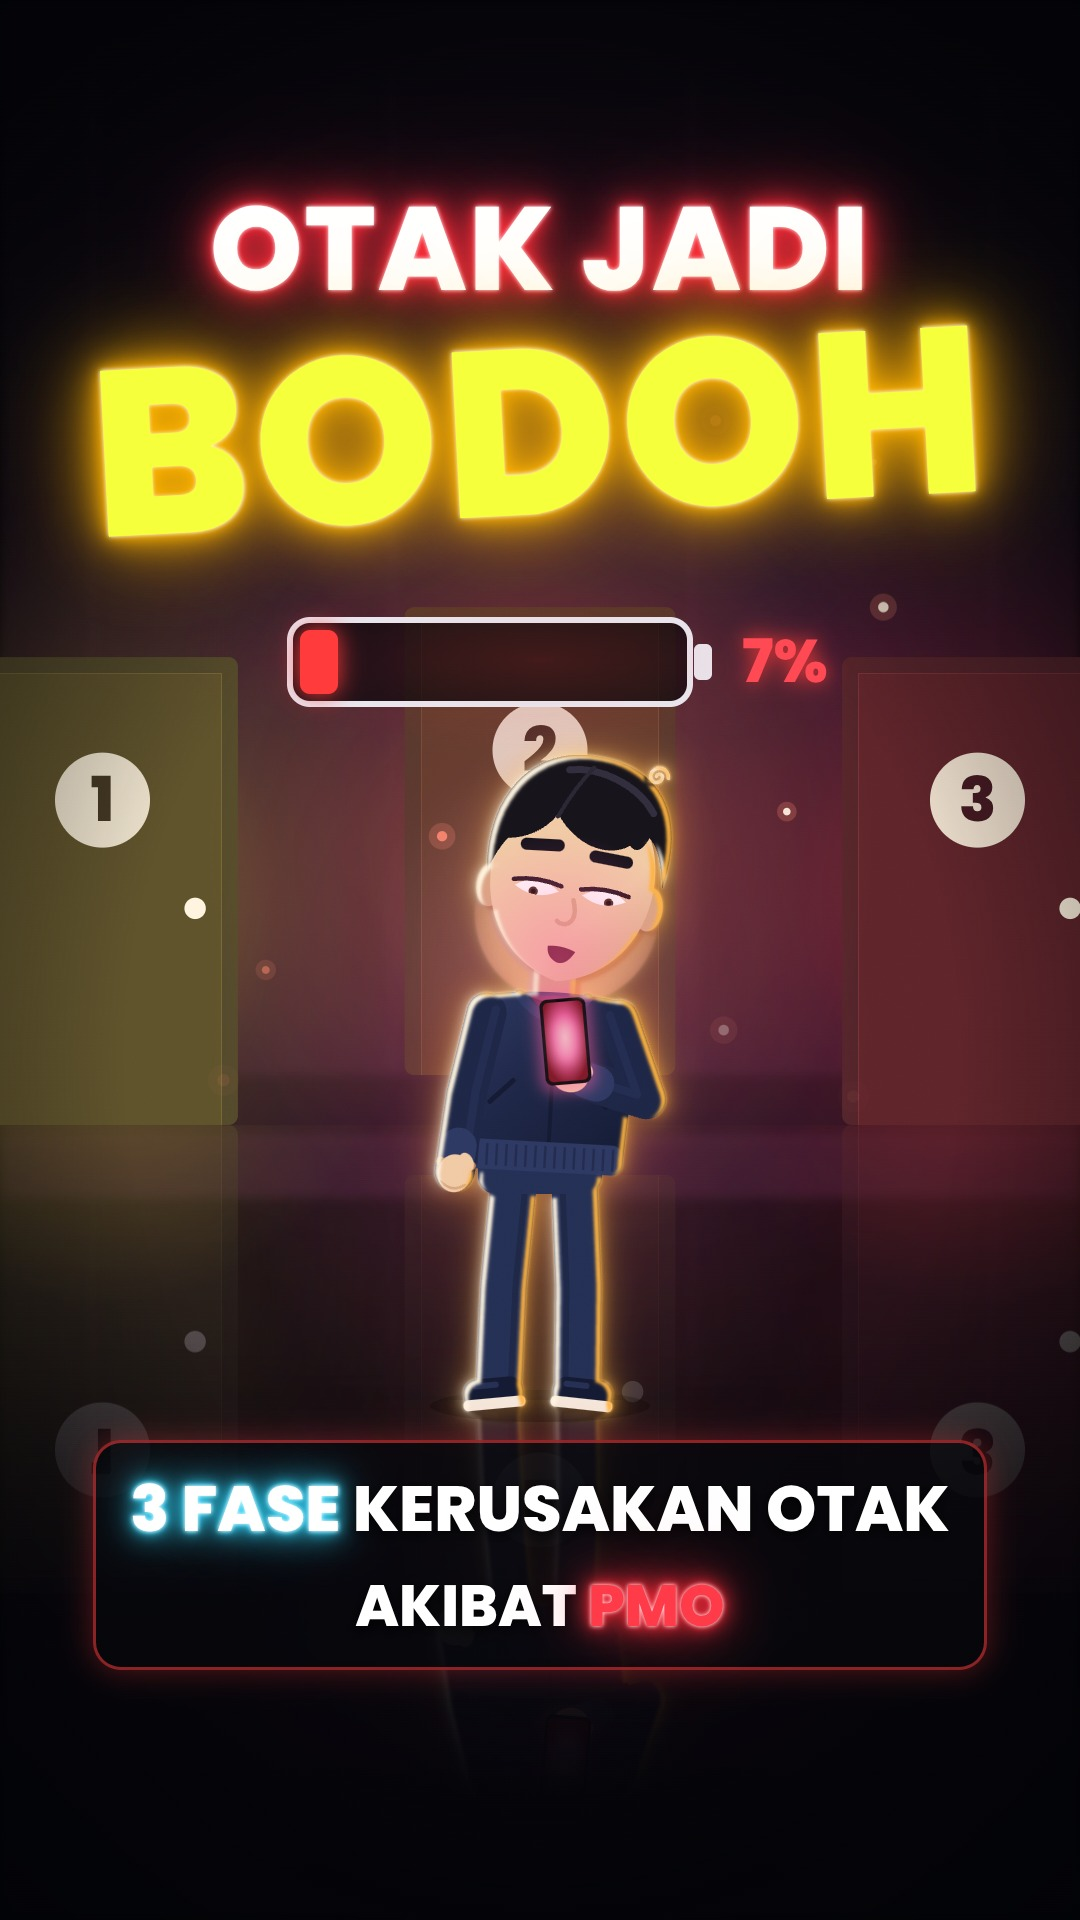
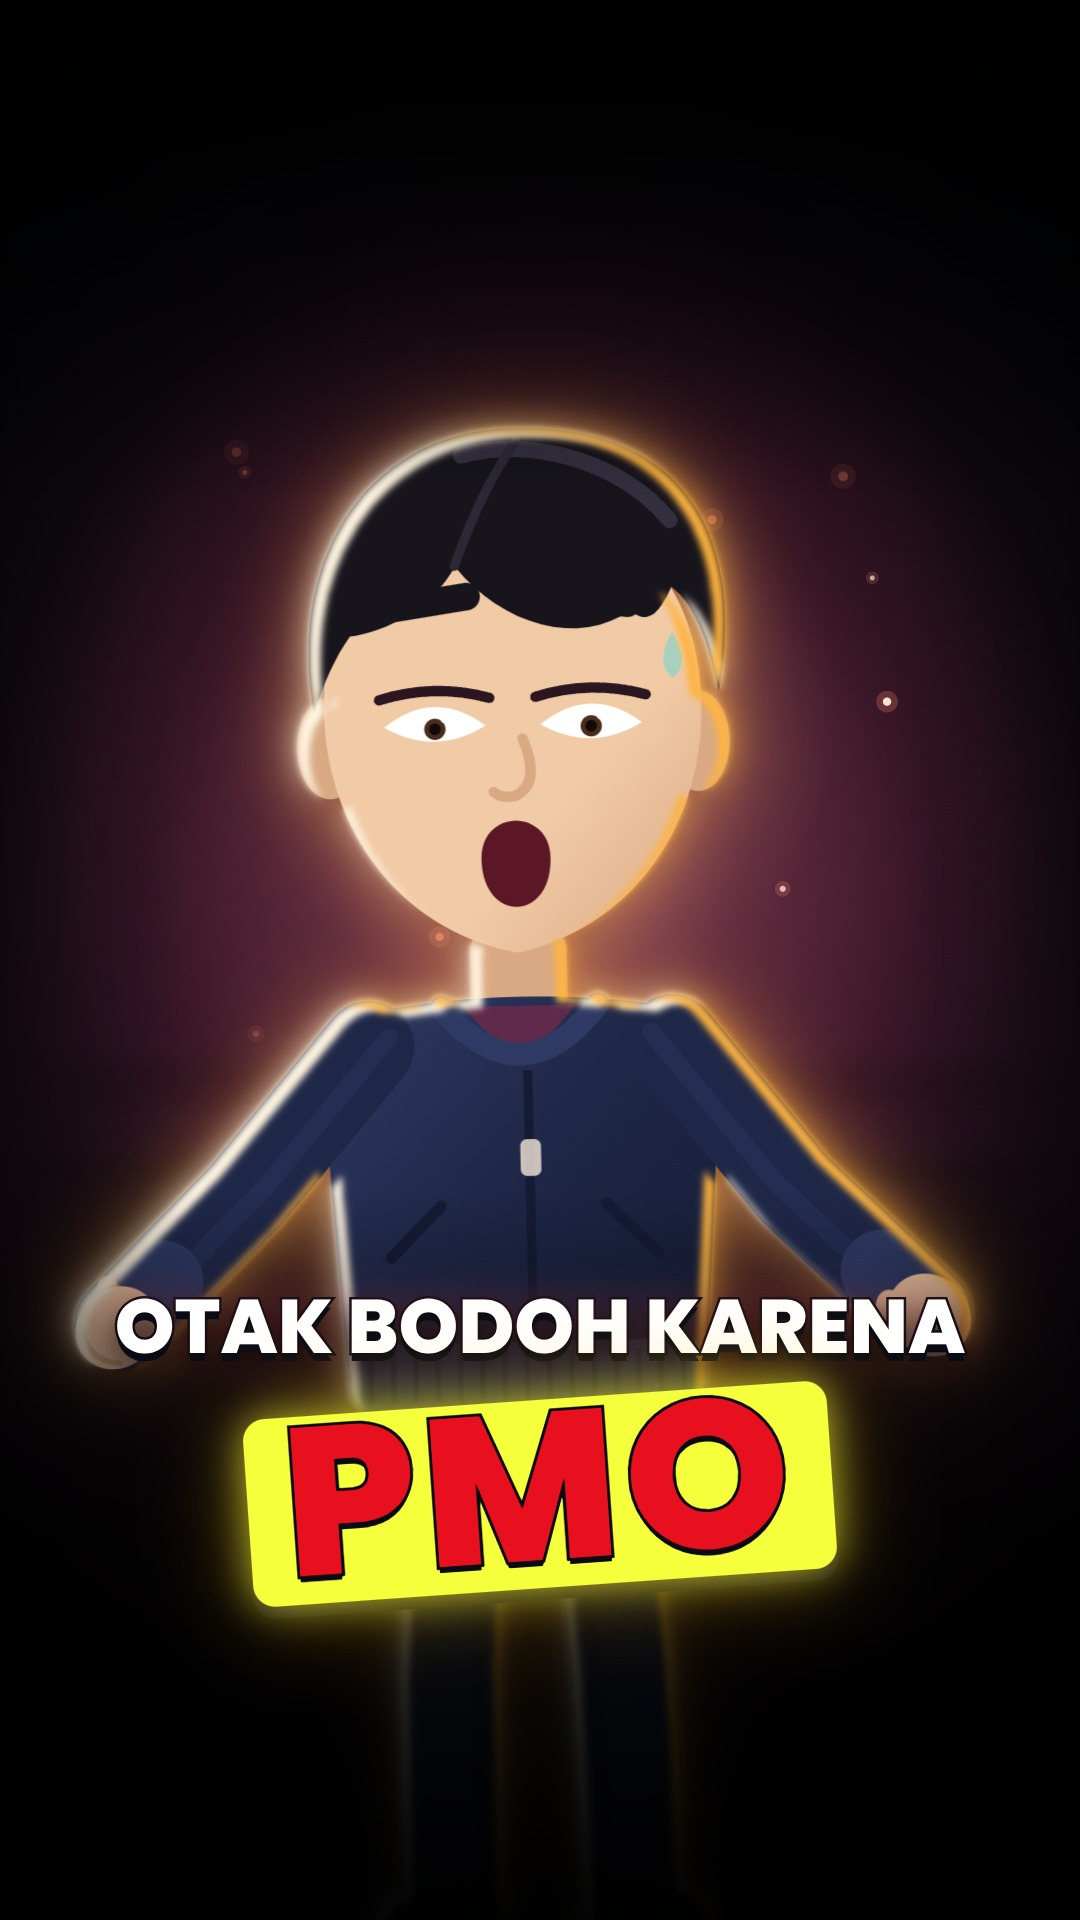
otakbodoh: revisi thumbnail (close-up melotot, tangan pegang ujung teks, PMO highlight, vignette atas-bawah)
Claude-Session: https://claude.ai/code/session_01PossTfFcZFX1SneWtUCcrT

diff --git a/remotion_otakbodoh/src/Thumbnail.tsx b/remotion_otakbodoh/src/Thumbnail.tsx
@@ -1,74 +1,69 @@
 // Thumbnail video "otak bodoh" (1080x1920, sama dengan video) -> out/thumbnail_otak_bodoh.jpg
-// Gaya video: ruang gelap samar + lantai mengkilap, 3 pintu fase bercahaya, karakter bengong memegang HP 18+ (simbolik),
-// judul teks NEON + baterai otak lowbat. Teks penting di tengah (bebas dari 260 px bawah & 80 px kiri/kanan UI TikTok/Reels).
+// Revisi: latar gelap, pencahayaan fokus (spotlight) ke karakter CLOSE-UP, ekspresi melotot, kedua tangan memegang ujung teks.
+// Teks "OTAK BODOH KARENA" / "PMO" (PMO di-highlight) di tengah area bawah, overlay PALING DEPAN (boleh menimpa karakter).
+// Vignette di bagian atas & bawah. Teks bebas dari 260 px bawah & 80 px kiri/kanan (UI TikTok/Reels).
 import React from 'react';
 import {AbsoluteFill} from 'remotion';
 import {FONT} from './fonts';
-import {Dim} from './components/Places';
-import {EmptyRoom, FEET, HZ, TONES, mixTone} from './components/Places4';
-import {Halo, LitCharacter, Reflect, Rise} from './components/Lit';
+import {EmptyRoom, TONES, mixTone} from './components/Places4';
+import {Halo, LitCharacter, Rise} from './components/Lit';
 import {Spotlight} from './components/Spot';
 import {Grain} from './components/Bg';
-import * as O from './illustrations/ob';
+import {handWorld} from './components/Character';
 
-const neon = (c: string, k = 1) => `0 0 4px #FFFFFF, 0 0 ${12 * k}px ${c}, 0 0 ${28 * k}px ${c}, 0 0 ${60 * k}px ${c}, 0 0 ${110 * k}px ${c}99`;
-const T0 = mixTone(TONES.emptyPurple, TONES.cityRed, 0.45);
+// karakter close-up
+const CX = 540, SC = 2.3, FEET_Y = 1935;
+const hl = handWorld('holding_text_edges', -1, CX, FEET_Y, SC); // tangan kanan karakter (kiri layar)
+const hr = handWorld('holding_text_edges', 1, CX, FEET_Y, SC);  // tangan kiri karakter (kanan layar)
+const L1_Y = (hl.y + hr.y) / 2;                                 // garis tengah baris 1 = tinggi genggaman
 
-export const Thumbnail: React.FC = () => (
-  <AbsoluteFill style={{background: '#000'}}>
-    {/* latar samar: ruang kosong + 3 pintu fase */}
-    <AbsoluteFill style={{filter: 'blur(5px)'}}>
-      <svg width={1080} height={1920}>
-        <g transform="translate(540,1000) scale(1.25) translate(-540,-1000)"><EmptyRoom T={T0} /></g>
-        <Dim dim={0.25} />
+let ctx: CanvasRenderingContext2D | null = null;
+const measure = (txt: string, size: number) => {
+  if (typeof document === 'undefined') return txt.length * size * 0.66;
+  if (!ctx) ctx = document.createElement('canvas').getContext('2d');
+  ctx!.font = `800 ${size}px Poppins`;
+  return ctx!.measureText(txt).width;
+};
+const L1 = 'OTAK BODOH KARENA';
+
+export const Thumbnail: React.FC = () => {
+  // baris 1 mengisi jarak antar genggaman (ujung huruf ada di tangan), tetap di dalam 80 px kiri/kanan
+  const span = Math.min(hr.x - hl.x + 60, 920);
+  const fs1 = (span / measure(L1, 100)) * 100;
+  const fs2 = 210;
+  return (
+    <AbsoluteFill style={{background: '#000'}}>
+      {/* latar gelap samar */}
+      <AbsoluteFill style={{filter: 'blur(9px)'}}>
+        <svg width={1080} height={1920}>
+          <EmptyRoom T={mixTone(TONES.emptyPurple, TONES.cityRed, 0.5)} />
+          <rect width={1080} height={1920} fill="#04030A" opacity={0.55} />
+        </svg>
+      </AbsoluteFill>
+      {/* fokus cahaya ke karakter close-up */}
+      <svg width={1080} height={1920} style={{position: 'absolute'}}>
+        <Spotlight x={540} y={900} rx={560} ry={700} dark={0.92} />
+        <Halo x={540} y={760} rx={520} ry={560} color="#FF4A6A" op={0.28} />
+        <Halo x={540} y={720} rx={300} ry={300} color="#FFE6C8" op={0.22} />
+        <Rise x={540} y={1100} w={760} h={700} n={16} color="#FF8A6A" t={17} />
+        <LitCharacter id="th" x={CX} y={FEET_Y} scale={SC} pose="holding_text_edges" expression="bulging" haloColor="#FF5A7A" lookAt={{x: 0, y: 0.05}} blinkSeed={99} />
       </svg>
-    </AbsoluteFill>
-    <svg width={1080} height={1920} style={{position: 'absolute'}}>
-      <g transform="translate(540,1050) scale(1.25) translate(-540,-1050)">
-        <Spotlight x={540} y={1000} rx={560} ry={760} dark={0.5} />
-        <Reflect floor={HZ} op={0.45} depth={420}>
-          <g transform={`translate(190,${HZ}) scale(0.95)`}><O.GlowDoor n={1} color="#FFD23F" on={1} /></g>
-          <g transform={`translate(890,${HZ}) scale(0.95)`}><O.GlowDoor n={3} color="#FF3B3B" on={1} /></g>
-        </Reflect>
-        <Reflect floor={HZ} op={0.4} depth={420}>
-          <g transform={`translate(540,${HZ - 40}) scale(0.95)`} opacity={0.9}><O.GlowDoor n={2} color="#FF8A2B" on={1} /></g>
-        </Reflect>
-        <Rise x={540} y={1100} w={600} h={600} n={14} color="#FF8A6A" t={23} />
-        <Reflect floor={FEET + 80} op={0.3}>
-          <LitCharacter id="th" x={540} y={FEET + 80} scale={0.8} pose="holding_phone" expression="dazed" haloColor="#FF5FA2" phoneColor="#FF5FA2"
-            lookAt={{x: 0.2, y: 0.4}} />
-        </Reflect>
-      </g>
-    </svg>
-    <AbsoluteFill style={{background: 'radial-gradient(ellipse 85% 60% at 50% 55%, rgba(0,0,0,0) 45%, rgba(2,3,6,0.85) 100%)'}} />
-    <Grain opacity={0.05} />
+      {/* vignette atas & bawah */}
+      <AbsoluteFill style={{background: 'linear-gradient(180deg, rgba(0,0,0,0.92) 0%, rgba(0,0,0,0.55) 12%, rgba(0,0,0,0) 26%, rgba(0,0,0,0) 62%, rgba(0,0,0,0.7) 80%, rgba(0,0,0,0.95) 100%)'}} />
+      <AbsoluteFill style={{background: 'radial-gradient(ellipse 75% 55% at 50% 45%, rgba(0,0,0,0) 55%, rgba(0,0,0,0.6) 100%)'}} />
+      <Grain opacity={0.05} />
 
-    {/* JUDUL NEON */}
-    <div style={{position: 'absolute', left: 80, right: 80, top: 190, textAlign: 'center', fontFamily: FONT, fontWeight: 800, lineHeight: 1}}>
-      <div style={{fontSize: 118, color: '#FFFFFF', letterSpacing: 2, textShadow: neon('#FF2A3A', 0.8)}}>OTAK JADI</div>
-      <div style={{fontSize: 236, color: '#F5FF3B', letterSpacing: 4, marginTop: 6, textShadow: neon('#FFB400', 1.1), transform: 'rotate(-3deg)'}}>BODOH</div>
-    </div>
-    {/* baterai otak lowbat */}
-    <svg width={1080} height={1920} style={{position: 'absolute'}}>
-      <g transform="translate(290,620)">
-        <rect x={0} y={0} width={400} height={84} rx={20} fill="rgba(6,7,12,0.75)" stroke="#E8ECF4" strokeWidth={6} />
-        <rect x={404} y={24} width={18} height={36} rx={6} fill="#E8ECF4" />
-        <rect x={10} y={10} width={38} height={64} rx={10} fill="#FF3B3B" style={{filter: 'drop-shadow(0 0 12px #FF3B3B)'}} />
-        <text x={452} y={62} fontFamily={FONT} fontWeight={800} fontSize={60} fill="#FF4A55" style={{filter: 'drop-shadow(0 0 10px #FF3B3B)'}}>7%</text>
-      </g>
-      <Halo x={540} y={660} rx={360} ry={90} color="#FF3B3B" op={0.18} />
-    </svg>
-    {/* sub judul */}
-    <div style={{position: 'absolute', left: 80, right: 80, top: 1440, textAlign: 'center', fontFamily: FONT, fontWeight: 800}}>
-      <div style={{display: 'inline-block', padding: '18px 34px', borderRadius: 28, background: 'rgba(6,7,12,0.7)', border: '3px solid #FF3B3B88',
-        boxShadow: '0 0 30px #FF3B3B55'}}>
-        <span style={{fontSize: 64, color: '#FFFFFF', textShadow: neon('#2FD8FF', 0.5)}}>3 FASE </span>
-        <span style={{fontSize: 64, color: '#FFFFFF', textShadow: '0 4px 14px rgba(0,0,0,0.8)'}}>KERUSAKAN OTAK</span>
-        <div style={{fontSize: 58, marginTop: 6}}>
-          <span style={{color: '#FFFFFF', textShadow: '0 4px 14px rgba(0,0,0,0.8)'}}>AKIBAT </span>
-          <span style={{color: '#FF3B4A', textShadow: neon('#FF2A3A', 0.7)}}>PMO</span>
+      {/* TEKS — overlay paling depan */}
+      <div style={{position: 'absolute', left: 0, right: 0, top: L1_Y - fs1 * 0.58, textAlign: 'center', fontFamily: FONT, fontWeight: 800, lineHeight: 1}}>
+        <div style={{fontSize: fs1, color: '#FFFFFF', letterSpacing: 0, whiteSpace: 'nowrap', WebkitTextStroke: '5px #0A0A14', paintOrder: 'stroke fill',
+          textShadow: '0 8px 0 #0A0A14, 0 14px 30px rgba(0,0,0,0.9), 0 0 40px rgba(255,80,100,0.35)'}}>{L1}</div>
+        <div style={{marginTop: fs1 * 0.22, display: 'inline-block', position: 'relative', transform: 'rotate(-4deg)'}}>
+          <div style={{position: 'absolute', left: -36, right: -36, top: 18, bottom: 4, background: '#F5FF3B', borderRadius: 22,
+            boxShadow: '0 0 40px #F5FF3BAA, 0 0 90px #FFB40066, 0 12px 0 #0A0A14'}} />
+          <div style={{position: 'relative', fontSize: fs2, color: '#E8101E', letterSpacing: 6, WebkitTextStroke: '6px #0A0A14', paintOrder: 'stroke fill',
+            textShadow: '0 6px 0 #0A0A14'}}>PMO</div>
         </div>
       </div>
-    </div>
-  </AbsoluteFill>
-);
+    </AbsoluteFill>
+  );
+};

diff --git a/remotion_otakbodoh/src/components/Character.tsx b/remotion_otakbodoh/src/components/Character.tsx
@@ -27,7 +27,9 @@ export type Expression =
   // video umur25
   | 'excited' | 'explosive' | 'daydreaming' | 'ashamed' | 'lost' | 'tired' | 'unfocused' | 'empty_stare' | 'avoiding_eye_contact'
   // video otak bodoh
-  | 'struggling' | 'blank' | 'hopeless';
+  | 'struggling' | 'blank' | 'hopeless'
+  // thumbnail
+  | 'bulging';
 
 export type PoseName =
   | 'standing_relaxed' | 'arms_crossed' | 'holding_phone' | 'head_in_hands'
@@ -51,7 +53,9 @@ export type PoseName =
   | 'walking_street' | 'sitting_bus_stop' | 'being_dragged' | 'sitting_meeting' | 'scratching_head' | 'looking_down'
   // video otak bodoh
   | 'chained_to_phone' | 'standing_still_lookup' | 'sitting_desk_study' | 'running_hamster_wheel' | 'puppet_pulled' | 'fist_clenched'
-  | 'sitting_meeting_blank' | 'procrastinating_slumped' | 'walking_treadmill' | 'head_down';
+  | 'sitting_meeting_blank' | 'procrastinating_slumped' | 'walking_treadmill' | 'head_down'
+  // thumbnail
+  | 'holding_text_edges';
 
 type Limb = {a: number; b: number}; // a = sendi pangkal, b = sendi tengah (relatif)
 type Pose = {
@@ -221,6 +225,8 @@ export const POSES: Record<PoseName, Pose> = {
   // jalan di treadmill (treadmill digambar di bawah kaki)
   walking_treadmill: mk({walk: 1, pelvisY: 252, lean: 3, armR: {a: 8, b: -24}, armL: {a: 8, b: -24}, headTilt: 3, pitch: 0.15}),
   // kepala tertunduk dalam, bahu jatuh
+  // thumbnail: kedua tangan terentang ke samping-bawah memegang ujung teks judul
+  holding_text_edges: mk({armR: {a: 38, b: 6}, armL: {a: 38, b: 6}, shoulder: 0.3, headTilt: 0, pitch: -0.04, headDY: -2}),
   head_down: mk({pitch: 0.9, headDY: 20, headTilt: 4, armR: {a: 2, b: -2}, armL: {a: 2, b: -2}, shoulder: 0.55, torsoSY: 0.96, pelvisY: 224}),
 };
 
@@ -341,6 +347,8 @@ export const EXPR: Record<Expression, ExprDef> = {
   blank: D({mouth: 'M -10 4 L 10 4 L 10 7 L -10 7 Z', browR: {y: -6, rot: 0}, browL: {y: -6, rot: 0}, eye: E({lid: 0, iris: 0.32}), load: 1}),
   hopeless: D({mouth: 'M -18 10 Q 0 0 18 10 Q 0 5 -18 10 Z', browR: {y: -4, rot: -20}, browL: {y: -4, rot: 20},
     eye: E({lid: 0.58, lidB: 0.1, iris: 0.8, dy: 0.8}), sweat: 0.2}),
+  // melotot: mata terbuka penuh, iris kecil, alis naik tinggi, mulut terbuka kaget
+  bulging: D({mouth: 'M -15 2 C -15 -20 15 -20 15 2 C 15 30 -15 30 -15 2 Z', browR: {y: -20, rot: -8}, browL: {y: -20, rot: 8}, eye: E({lid: 0, iris: 0.42}), sweat: 0.8}),
   crying: D({mouth: M.crying, browR: {y: -6, rot: -22}, browL: {y: -6, rot: 22}, eye: E({lid: 0.55, lidB: 0.25, dy: 0.3}), tears: 1}),
 };
 
